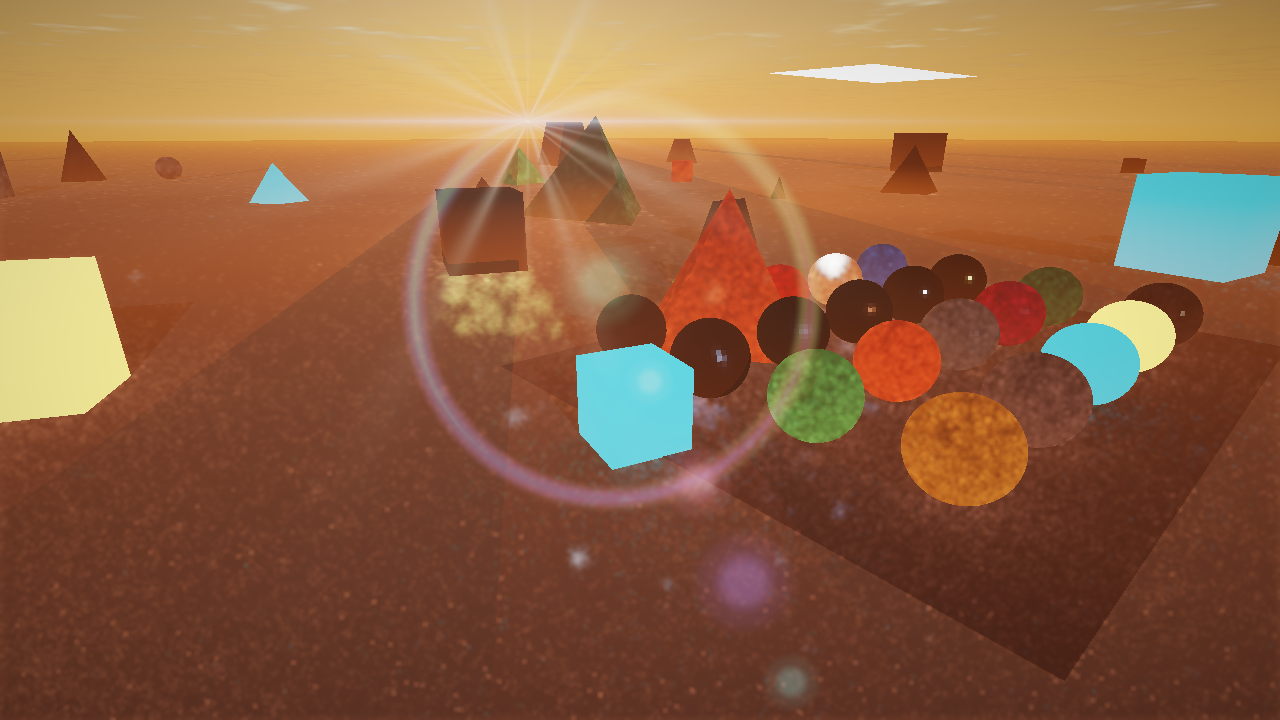
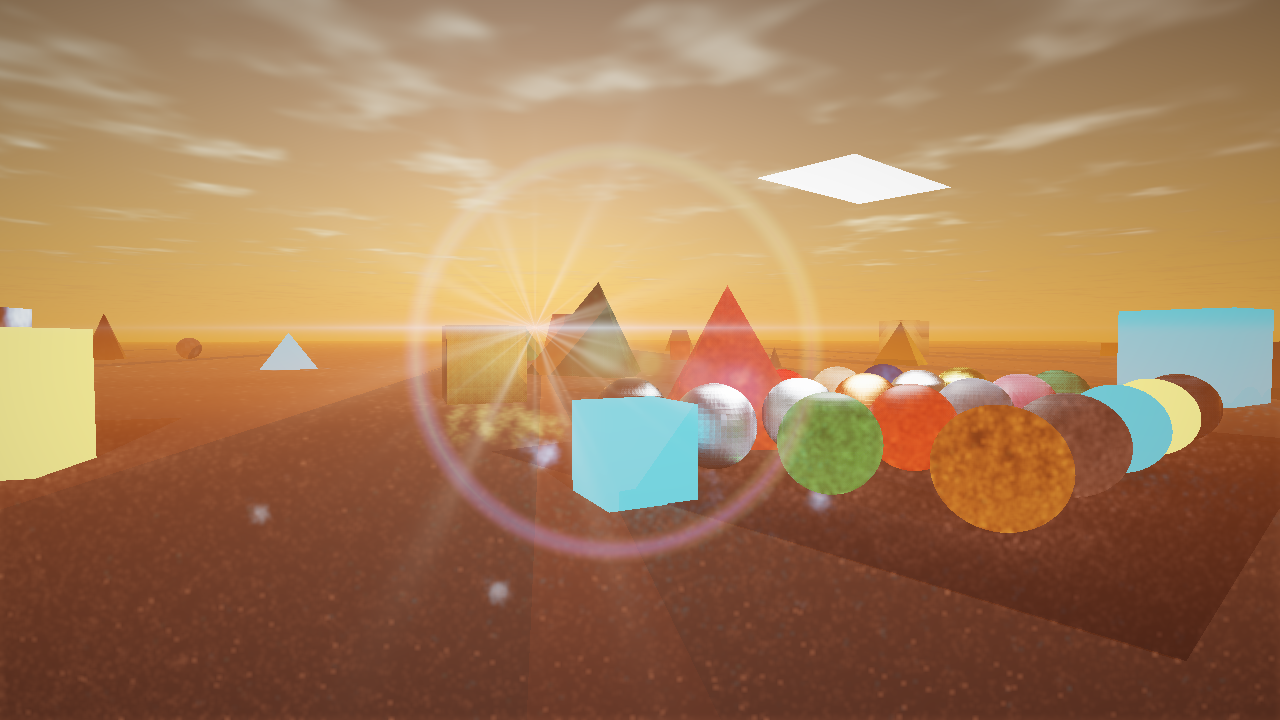
M9: render authored materials in combined Showcase

diff --git a/Projects/Project-Zero/Source/RendererHost.cpp b/Projects/Project-Zero/Source/RendererHost.cpp
@@ -17,7 +17,205 @@
 #undef in
 #undef uniform
 
-namespace Frontier::ProjectZero {
+namespace Frontier::ProjectZero
+{
+namespace
+{
+
+// M9 CPU reference transport. The previous Showcase CPU path evaluated authored materials only at the primary hit and
+// then multiplied a diffuse proxy into the ReSTIR GI buffer. That is a valid source-contract check, but it cannot show
+// metal reflections or glass transmission. This small path continuation uses the exact MaterialEvaluation.slang
+// EvaluateBsdf/SampleBsdf pair for authored secondary rays while keeping the existing sun, moon, sky and cloud queries.
+struct ShowcasePathRng
+{
+    uint32_t State;
+    explicit ShowcasePathRng(uint32_t Seed) noexcept : State(Seed * 747796405u + 2891336453u) {}
+    float Next() noexcept
+    {
+        State = State * 747796405u + 2891336453u;
+        uint32_t Word = ((State >> ((State >> 28u) + 4u)) ^ State) * 277803737u;
+        Word = (Word >> 22u) ^ Word;
+        return static_cast<float>(Word) * (1.0f / 4294967296.0f);
+    }
+};
+
+Vector3 CpuWorldFromLocal(const CpuMaterial::vec3& Local, const Vector3& N) noexcept
+{
+    CpuMaterial::vec3 T, B;
+    CpuMaterial::Frame(CpuMaterial::normalize(CpuMaterial::ToShader(N)), T, B);
+    return CpuMaterial::ToEngine(T * Local.x + B * Local.y + CpuMaterial::normalize(CpuMaterial::ToShader(N)) * Local.z);
+}
+
+Vector3 TraceAuthoredIndirect(const RayTracingSolver& Scene,
+                              const std::vector<AnalyticalMaterial>& Materials,
+                              const std::vector<CpuMaterial::ShadingRecord>& Records,
+                              const std::vector<uint8_t>& HasAuthoredMaterial,
+                              const SkyFogIntegrator& SkyFog,
+                              const Vector3& SunWorld, const Vector3& SunRadiance,
+                              const Vector3& MoonWorld, const Vector3& MoonRadiance,
+                              const Vector3& PrimaryPoint, const Vector3& PrimaryNormal,
+                              const Vector3& PrimaryView, uint32_t PrimaryMaterial,
+                              uint32_t SampleCount, uint32_t MaxDepth, uint32_t Seed) noexcept
+{
+    if (PrimaryMaterial >= HasAuthoredMaterial.size() || HasAuthoredMaterial[PrimaryMaterial] == 0u ||
+        PrimaryMaterial >= Records.size() || SampleCount == 0u)
+        return Vector3{ 0.0f, 0.0f, 0.0f };
+
+    const CpuMaterial::ShadingRecord& PrimaryRecord = Records[PrimaryMaterial];
+    Vector3 Sum{ 0.0f, 0.0f, 0.0f };
+    ShowcasePathRng Rng(Seed);
+    for (uint32_t Sample = 0u; Sample < SampleCount; ++Sample)
+    {
+        Vector3 NWorld = PrimaryNormal;
+        if (OrientationClassifier::DotProduct(NWorld, PrimaryView) < 0.0f) NWorld = Vector3{ -NWorld.x, -NWorld.y, -NWorld.z };
+        CpuMaterial::vec3 T, B;
+        const CpuMaterial::vec3 N = CpuMaterial::normalize(CpuMaterial::ToShader(NWorld));
+        CpuMaterial::Frame(N, T, B);
+        const CpuMaterial::vec3 Wo(CpuMaterial::dot(CpuMaterial::ToShader(PrimaryView), T),
+                                   CpuMaterial::dot(CpuMaterial::ToShader(PrimaryView), B),
+                                   CpuMaterial::dot(CpuMaterial::ToShader(PrimaryView), N));
+        if (Wo.z <= 0.0f) continue;
+        const CpuMaterial::ResolvedLayers PrimaryLayers = CpuMaterial::ResolveLayers(PrimaryRecord, Wo);
+        const CpuMaterial::vec4 BsdfSample( Rng.Next(), Rng.Next(), Rng.Next(), Rng.Next() );
+        const CpuMaterial::vec4 Sampled = CpuMaterial::SampleBsdf(PrimaryRecord, PrimaryLayers, Wo, BsdfSample);
+        if (Sampled.w <= 1e-8f) continue;
+        const CpuMaterial::vec3 PrimaryF = CpuMaterial::EvaluateBsdf(PrimaryRecord, PrimaryLayers, Wo, Sampled.xyz);
+        CpuMaterial::vec3 Throughput = PrimaryF * (std::fabs(Sampled.z) / Sampled.w);
+        Vector3 Direction = CpuWorldFromLocal(Sampled.xyz, NWorld);
+        Vector3 Origin = PrimaryPoint + Direction * 0.001f;
+        Vector3 Radiance{ 0.0f, 0.0f, 0.0f };
+
+        for (uint32_t Depth = 1u; Depth <= MaxDepth; ++Depth)
+        {
+            const RayStructure Ray{ Origin, Direction, 0.001f, 1000.0f };
+            const HitIntersection Hit = Scene.EvaluateIntersection(Ray);
+            if (!Hit.ValidCondition)
+            {
+                const Vector3 SkyDirection = SkyFogIntegrator::RenderFromWorld(Direction);
+                Radiance += CpuMaterial::ToEngine(Throughput) * SkyFog.ComputeSkyRadiance(SkyDirection);
+                break;
+            }
+            if (Hit.MaterialIndex >= Materials.size()) break;
+
+            const bool Authored = Hit.MaterialIndex < HasAuthoredMaterial.size() && HasAuthoredMaterial[Hit.MaterialIndex] != 0u;
+            const AnalyticalMaterial& HitMaterial = Materials[Hit.MaterialIndex];
+            if (!Authored)
+            {
+                const float SunCos = std::max(0.0f, OrientationClassifier::DotProduct(Hit.SurfaceNormal, SunWorld));
+                const float MoonCos = std::max(0.0f, OrientationClassifier::DotProduct(Hit.SurfaceNormal, MoonWorld));
+                const bool SunVisible = !Scene.EvaluateOcclusion(Hit.HitLocation + Hit.SurfaceNormal * 0.001f,
+                                                                  Hit.HitLocation + SunWorld * 1000.0f);
+                const bool MoonVisible = !Scene.EvaluateOcclusion(Hit.HitLocation + Hit.SurfaceNormal * 0.001f,
+                                                                   Hit.HitLocation + MoonWorld * 1000.0f);
+                const float Cloud = SkyFog.QueryCloudShadow(Hit.HitLocation, SunWorld);
+                Radiance += CpuMaterial::ToEngine(Throughput) * HitMaterial.AlbedoColor *
+                            (SunRadiance * (SunCos * (SunVisible ? 1.0f : 0.0f) * Cloud) +
+                             MoonRadiance * (MoonCos * (MoonVisible ? 1.0f : 0.0f)));
+                break;
+            }
+
+            const CpuMaterial::ShadingRecord& Material = Records[Hit.MaterialIndex];
+            if (CpuMaterial::IsEmissive(Material))
+            {
+                Radiance += CpuMaterial::ToEngine(Throughput) * CpuMaterial::ToEngine(Material.Emission);
+                break;
+            }
+
+            Vector3 NHit = Hit.SurfaceNormal;
+            const Vector3 View{ -Direction.x, -Direction.y, -Direction.z };
+            if (OrientationClassifier::DotProduct(NHit, View) < 0.0f) NHit = Vector3{ -NHit.x, -NHit.y, -NHit.z };
+            const Vector3 SunF = CpuMaterial::Evaluate(Material, NHit, View, SunWorld);
+            const Vector3 MoonF = CpuMaterial::Evaluate(Material, NHit, View, MoonWorld);
+            const float Cloud = SkyFog.QueryCloudShadow(Hit.HitLocation, SunWorld);
+            const bool SunVisible = !Scene.EvaluateOcclusion(Hit.HitLocation + NHit * 0.001f,
+                                                              Hit.HitLocation + SunWorld * 1000.0f);
+            const bool MoonVisible = !Scene.EvaluateOcclusion(Hit.HitLocation + NHit * 0.001f,
+                                                               Hit.HitLocation + MoonWorld * 1000.0f);
+            Radiance += CpuMaterial::ToEngine(Throughput) * (SunF * SunRadiance * (SunVisible ? Cloud : 0.0f) +
+                                     MoonF * MoonRadiance * (MoonVisible ? 1.0f : 0.0f));
+
+            CpuMaterial::vec3 HitT, HitB;
+            const CpuMaterial::vec3 HitN = CpuMaterial::normalize(CpuMaterial::ToShader(NHit));
+            CpuMaterial::Frame(HitN, HitT, HitB);
+            const CpuMaterial::vec3 HitWo(CpuMaterial::dot(CpuMaterial::ToShader(View), HitT),
+                                          CpuMaterial::dot(CpuMaterial::ToShader(View), HitB),
+                                          CpuMaterial::dot(CpuMaterial::ToShader(View), HitN));
+            if (HitWo.z <= 0.0f) break;
+            const CpuMaterial::ResolvedLayers Layers = CpuMaterial::ResolveLayers(Material, HitWo);
+            const CpuMaterial::vec4 NextSample(Rng.Next(), Rng.Next(), Rng.Next(), Rng.Next());
+            const CpuMaterial::vec4 Next = CpuMaterial::SampleBsdf(Material, Layers, HitWo, NextSample);
+            if (Next.w <= 1e-8f) break;
+            const CpuMaterial::vec3 F = CpuMaterial::EvaluateBsdf(Material, Layers, HitWo, Next.xyz);
+            Throughput *= F * (std::fabs(Next.z) / Next.w);
+            Throughput = CpuMaterial::min(Throughput, CpuMaterial::vec3(16.0f));
+            Direction = CpuWorldFromLocal(Next.xyz, NHit);
+            Origin = Hit.HitLocation + Direction * 0.001f;
+
+            if (Depth >= 3u)
+            {
+                const float Continue = std::clamp(0.2126f * Throughput.x + 0.7152f * Throughput.y + 0.0722f * Throughput.z,
+                                                  0.05f, 0.95f);
+                if (Rng.Next() > Continue) break;
+                Throughput *= 1.0f / Continue;
+            }
+        }
+        Sum += Radiance;
+    }
+    return Sum * (1.0f / static_cast<float>(SampleCount));
+}
+
+std::vector<Vector3> AtrousAuthoredIndirect(const std::vector<Vector3>& Input,
+                                             const std::vector<HitIntersection>& Hits,
+                                             const std::vector<uint8_t>& HasAuthoredMaterial,
+                                             uint32_t Width, uint32_t Height) noexcept
+{
+    std::vector<Vector3> A = Input;
+    std::vector<Vector3> B(Input.size(), Vector3{ 0.0f, 0.0f, 0.0f });
+    // CPU counterpart of the enabled M9 presentation filter: five à-trous levels, with normal/depth rejection so
+    // glossy reflections are averaged without bleeding across the scattered-field silhouettes or the grid cells.
+    for (uint32_t Level = 0u; Level < 5u; ++Level)
+    {
+        const int Step = 1 << Level;
+        for (uint32_t Y = 0u; Y < Height; ++Y)
+            for (uint32_t X = 0u; X < Width; ++X)
+            {
+                const size_t CenterIndex = static_cast<size_t>(Y) * Width + X;
+                const HitIntersection& CenterHit = Hits[CenterIndex];
+                if (!CenterHit.ValidCondition || CenterHit.MaterialIndex >= HasAuthoredMaterial.size() ||
+                    HasAuthoredMaterial[CenterHit.MaterialIndex] == 0u)
+                {
+                    B[CenterIndex] = Vector3{ 0.0f, 0.0f, 0.0f };
+                    continue;
+                }
+                Vector3 Sum = A[CenterIndex];
+                float Weight = 1.0f;
+                const int OffsetX[4] = { -Step, Step, 0, 0 };
+                const int OffsetY[4] = { 0, 0, -Step, Step };
+                for (uint32_t Tap = 0u; Tap < 4u; ++Tap)
+                {
+                    const int NX = static_cast<int>(X) + OffsetX[Tap];
+                    const int NY = static_cast<int>(Y) + OffsetY[Tap];
+                    if (NX < 0 || NY < 0 || NX >= static_cast<int>(Width) || NY >= static_cast<int>(Height)) continue;
+                    const size_t NeighborIndex = static_cast<size_t>(NY) * Width + static_cast<size_t>(NX);
+                    const HitIntersection& NeighborHit = Hits[NeighborIndex];
+                    if (!NeighborHit.ValidCondition || NeighborHit.MaterialIndex >= HasAuthoredMaterial.size() ||
+                        HasAuthoredMaterial[NeighborHit.MaterialIndex] == 0u)
+                        continue;
+                    const float NormalWeight = std::pow(std::max(0.0f,
+                        OrientationClassifier::DotProduct(CenterHit.SurfaceNormal, NeighborHit.SurfaceNormal)), 24.0f);
+                    const float DepthWeight = std::exp(-std::abs(CenterHit.RayDistance - NeighborHit.RayDistance) * 5.0f);
+                    const float TapWeight = NormalWeight * DepthWeight;
+                    Sum += A[NeighborIndex] * TapWeight;
+                    Weight += TapWeight;
+                }
+                B[CenterIndex] = Sum / std::max(Weight, 1e-6f);
+            }
+        A.swap(B);
+    }
+    return A;
+}
+
+} // namespace
 
 //------------------------------------------------------------------------------------------------------------------------
 //                                                LIFECYCLE IMPLEMENTATION
@@ -228,6 +426,33 @@ void RendererHost::RenderShowcaseFrame(const Frontier::CameraProjection& ActiveC
             DirectReservoirs[idx] = DirectReservoir;
         }
     }
+
+    // Authored transport continuation. ReSTIR DI above still owns the first-hit direct candidates; this companion
+    // path supplies the reflected/refracted radiance that a Lambert-only composition cannot represent. It is kept
+    // separate from FilteredIndirect so the legacy showcase field and its ReSTIR proof remain unchanged.
+    std::vector<Vector3> AuthoredIndirect(Width * Height, Vector3{ 0.0f, 0.0f, 0.0f });
+    const uint32_t PathSamples = std::clamp(std::max(4u, SpatialPassCount * 4u), 4u, 16u);
+    const uint32_t PathDepth = std::clamp(BounceCount, 2u, 8u);
+    for (uint32_t y = 0; y < Height; ++y)
+    {
+        for (uint32_t x = 0; x < Width; ++x)
+        {
+            const size_t idx = static_cast<size_t>(y) * Width + x;
+            const HitIntersection& Hit = PrimaryHits[idx];
+            if (!Hit.ValidCondition || Hit.MaterialIndex >= HasAuthoredMaterial.size() ||
+                HasAuthoredMaterial[Hit.MaterialIndex] == 0u)
+                continue;
+            const RayStructure PrimaryRay = GeneratePrimaryRay(ActiveCamera, x, y, 0.5f, 0.5f);
+            const Vector3 View{ -PrimaryRay.RayDirection.x, -PrimaryRay.RayDirection.y, -PrimaryRay.RayDirection.z };
+            AuthoredIndirect[idx] = TraceAuthoredIndirect(Scene, Materials, AuthoredRecords, HasAuthoredMaterial, SkyFog,
+                                                           SunWorld, SunRadiance, MoonWorld, MoonRadiance,
+                                                           Hit.HitLocation, Hit.SurfaceNormal, View, Hit.MaterialIndex,
+                                                           PathSamples, PathDepth,
+                                                           static_cast<uint32_t>(idx * 2654435761u + 0x9E3779B9u));
+        }
+    }
+    std::vector<Vector3> FilteredAuthoredIndirect = AtrousAuthoredIndirect(AuthoredIndirect, PrimaryHits,
+                                                                            HasAuthoredMaterial, Width, Height);
 
     // Phase 3: ReSTIR GI Initial Candidate Bounce Ray Tracing (8 samples)
     for (uint32_t y = 0; y < Height; ++y)
@@ -475,7 +700,17 @@ void RendererHost::RenderShowcaseFrame(const Frontier::CameraProjection& ActiveC
             Vector3 Surface;
             if (Hit.MaterialIndex < HasAuthoredMaterial.size() && HasAuthoredMaterial[Hit.MaterialIndex] != 0u &&
                 AuthoredUnlit[Hit.MaterialIndex] == 0u)
-                Surface = DirectLight[idx] + CpuMaterial::IndirectAlbedo(AuthoredRecords[Hit.MaterialIndex]) * FilteredIndirect[idx];
+            {
+                const CpuMaterial::ShadingRecord& Record = AuthoredRecords[Hit.MaterialIndex];
+                // ReSTIR GI remains the low-noise diffuse base. The exact BSDF continuation supplies reflected and
+                // refracted transport for the non-Lambert arms, so metal, coat, thin-film and glass cannot collapse
+                // to a flat albedo when the GPU/CPU showcase is rendered without a Vulkan device.
+                const float Transport = std::clamp(Record.Metalness + Record.TransmissionWeight +
+                                                    0.75f * Record.CoatWeight + 0.50f * Record.ThinFilmWeight +
+                                                    0.40f * Record.SssWeight + 0.20f * Record.FuzzWeight, 0.0f, 1.0f);
+                Surface = DirectLight[idx] + CpuMaterial::IndirectAlbedo(Record) * FilteredIndirect[idx]
+                        + FilteredAuthoredIndirect[idx] * Transport;
+            }
             else if (Hit.MaterialIndex < HasAuthoredMaterial.size() && AuthoredUnlit[Hit.MaterialIndex] != 0u)
                 Surface = DirectLight[idx];
             else

diff --git a/Projects/Project-Zero/Source/CpuReferenceMain.cpp b/Projects/Project-Zero/Source/CpuReferenceMain.cpp
@@ -20,7 +20,7 @@ int main(int ArgumentCount, char** ArgumentValues)
 {
     double SunHour = 17.93;
     double LensYaw = 220.0;
-    double LensPitch = -20.0; // keeps the old celestial field while framing all four rows of the additive grid
+    double LensPitch = -2.0;
     // High-quality default: the CPU reference now renders the combined Showcase + Material Grid level at the same
     //    16:9 presentation size used by Project-Zero's window. CLI flags still allow quick smoke renders.
     uint32_t ViewportWidth = 1280;
@@ -172,7 +172,7 @@ int main(int ArgumentCount, char** ArgumentValues)
 
     constexpr float Deg2Rad = 3.14159265359f / 180.0f;
     Frontier::CameraProjection Camera;
-    Camera.AssignSpatialLocation(Frontier::Vector3{ 0.0f, -14.0f, 4.5f });
+    Camera.AssignSpatialLocation(Frontier::Vector3{ 0.0f, -14.0f, 2.2f });
     Camera.AssignOrientationEuler(static_cast<float>(LensPitch) * Deg2Rad, static_cast<float>(LensYaw) * Deg2Rad, 0.0f);
     Camera.AssignFieldOfView(60.0f);
     Camera.AssignAspectRatio(static_cast<float>(ViewportWidth) / static_cast<float>(ViewportHeight));
@@ -205,6 +205,10 @@ int main(int ArgumentCount, char** ArgumentValues)
         }
         std::cout << "[Project-Zero] Exported raw PPM image to: " << PpmPath << "\n";
 #if !defined(_WIN32)
+        // Do not accept an older PNG as proof of this frame. The optional Python converter is absent in some
+        // checkouts; RunHighQualityShowcaseCpu.sh supplies the ImageMagick fallback after this export.
+        std::error_code RemovePngError;
+        std::filesystem::remove(PngPath, RemovePngError);
         std::string ConvertPy3 = "python3 ../../Tools/PpmToPng.py " + PpmPath + " " + PngPath + " > /dev/null 2>&1";
         std::string ConvertPy = "python ../../Tools/PpmToPng.py " + PpmPath + " " + PngPath + " > /dev/null 2>&1";
         (void)std::system(ConvertPy3.c_str());

diff --git a/Projects/Project-Zero/Source/GameExecution.cpp b/Projects/Project-Zero/Source/GameExecution.cpp
@@ -452,12 +452,10 @@ int main(int argc, char** argv)
     }
     else if (Level.QueryName() == "Showcase")
     {
-        // Showcase: stand south of the field, facing the sunset (yaw 220°, pitch −15°) so the
-        //    sun-only flare and the additive foreground grid are in frame on launch.
-        Camera.AssignSpatialLocation(Frontier::Vector3{ 0.0f, -14.0f, 4.5f });
-        // Slightly lower pitch keeps the original sunset/sky/cloud/celestial presentation while bringing the
-        // additive foreground grid's four rows into view; the old scene remains the same camera branch.
-        Camera.AssignOrientationEuler(-15.0f * 3.14159265f / 180.0f, 220.0f * 3.14159265f / 180.0f, 0.0f);
+        // Preserve the original Showcase launch camera: the material grid is additive geometry in the old scattered
+        // field, not a replacement level or a new camera presentation.
+        Camera.AssignSpatialLocation(Frontier::Vector3{ 0.0f, -14.0f, 2.2f });
+        Camera.AssignOrientationEuler(-2.0f * 3.14159265f / 180.0f, 220.0f * 3.14159265f / 180.0f, 0.0f);
     }
     else if (Level.QueryName() == "Showroom" || Level.QueryName() == "ShowroomDrop")
     {

diff --git a/Docs/MaterialM9.md b/Docs/MaterialM9.md
@@ -32,7 +32,7 @@ The actual Project-Zero default is now `Showcase.gltf` with the grid appended to
 bash Projects/Project-Zero/RunHighQualityShowcaseCpu.sh 1280 720 12 4
 ```
 
-The latest combined render completed successfully in 18.1 seconds at 1280×720.
+The latest combined render completed successfully in 73.1 seconds at 1280×720. Authored secondary rays use the exact `MaterialEvaluation.slang` BSDF for reflection/refraction and the CPU presentation applies five normal/depth-aware à-trous levels, rather than using a flat Lambert fallback.
 
 The command produces actual material A/B PNGs and a SHA-256 manifest, then runs the high-quality combined default Project-Zero reference render (`Projects/Project-Zero/Diagnostics/ProjectZero_Showcase.png`). That second render keeps the original scattered shapes, sun/sky/clouds, lens flare, moon/stars, ground mist, and CPU ReSTIR DI/GI path; the material A/B images remain the focused same-Slang material proof.
 
@@ -56,11 +56,11 @@ enabled         1a3e84ba4ac31c2e50699bac49b4e41e3b088c749ce69f349bdb42ce3f845ed1
 no_denoise      cba0214727171d74516b30290f8bd53ab9e3f0a916a66b5f3262c5516cba19e2
 no_reprojection 704290907d6d1358eeb5ddc4e32d084f6576d9f60300711c9833aff7eed5357a
 ui              9b26d167aa6e46e631a74e8e7056a82c3e5910a29535c0ff2bc2106cf1c41694
-combined        3d356acf533620d30d5359017d3689ee4bfaa3268c848f8a5e120cf086bfd8d5
+combined        1997ba09637afcb814d87ac8ed6df1634fdf2bff93e69bb8deeb924640517504
                 1280×720, 12 bounce candidates, 4 spatial passes
 ```
 
-The exact hash set is regenerated by the script after any CPU/compiler change. The files under `Projects/Project-Zero/Diagnostics/` are regenerable and ignored by the repository’s diagnostics rules; the committed source and command are the proof contract.
+The exact hash set is regenerated by the script after any CPU/compiler change. The PPM and build outputs under `Projects/Project-Zero/Diagnostics/` remain ignored; the PNG validation artifacts and SHA-256 manifests are checked in so the rendered result is visible in the repository.
 
 ## What is validated headlessly
 

diff --git a/Docs/MaterialGrid.md b/Docs/MaterialGrid.md
@@ -45,7 +45,7 @@ For the complete default scene, including the original scattered shapes, sunset 
 bash Projects/Project-Zero/RunHighQualityShowcaseCpu.sh 1280 720 12 4
 ```
 
[2 lines of base64/hex data omitted]
 
 This writes raw, enabled, `--no-denoise` and `--no-reprojection` A/B images, the UI-facing image, and a SHA-256 manifest. It then renders the combined default Showcase at 1280×720 through the CPU ReSTIR DI/GI reference, preserving the original scattered shapes, sun/sky/clouds, lens flare, moon/stars and ground mist while the grid is additive. The source-contract gate remains useful for dispatch/barrier wiring:
 

diff --git a/References/MaterialRestir-Plan.md b/References/MaterialRestir-Plan.md
@@ -260,7 +260,8 @@ selection-switch retention test.
   sky/area-light paths, enabled output, both A/B disables, and a CPU-rasterized UI presentation.
   The default Showcase exporter now appends those authored grid records and geometry to the original
   100-object sun/sky/cloud/celestial/lens-flare level; `RunHighQualityShowcaseCpu.sh` renders that
-  combined default at 1280×720 with 12 bounce candidates and four spatial passes. The focused gate
+  combined default at 1280×720 with 12 bounce candidates and four spatial passes, including exact authored
+  secondary BSDF transport and the five-level CPU à-trous presentation filter. The focused gate
   writes five PNGs plus a SHA-256 manifest under `Projects/Project-Zero/Diagnostics/`.
 - A Vulkan device is still required only for final GPU shader compilation and GPU-vs-CPU pixel agreement;
   the CPU same-scene/same-math/actual-pixel validation is complete in this sandbox.
